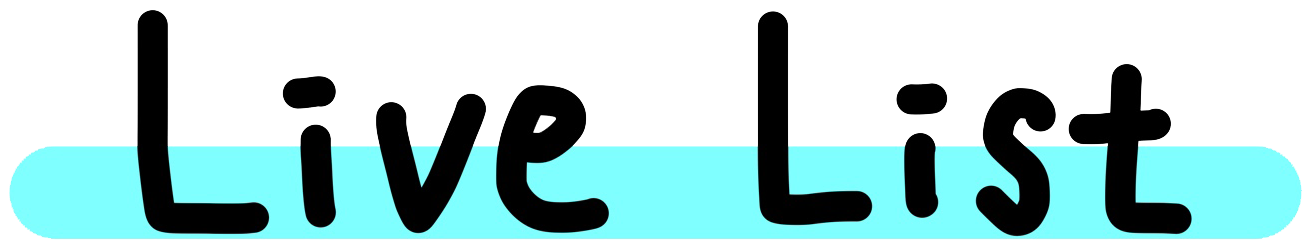
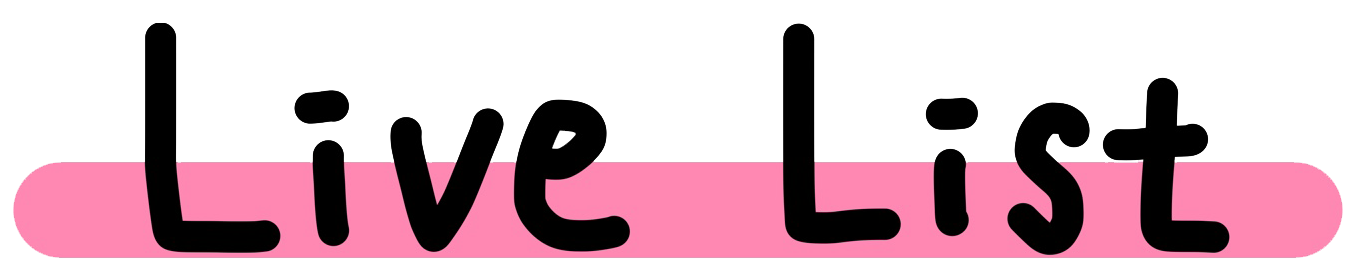
21.01.23: study-tapMenu
1. aloneStudy.html -> study-tapMenu 만듦
2. tap 효과 (studyMenu.js)
3. change livelist.png image
4. change main.html pageFrame class

diff --git a/views/aloneStudy.html b/views/aloneStudy.html
@@ -25,11 +25,18 @@
             </ul>
         </div>
     </nav>
-    <div class="pageFrame Study">
-        <div class="aloneToDoBox">
-            <div class="toDoTitle">
-                <img src="/imgs/todo.png" alt="">
-            </div>
+    <div class="study-menu">
+        <ul>
+            <li style="background-image:url('/imgs/todo.png'); background-size: 150px 50px;" data-link="#todo" class="on"></li>
+            <li style="background-image:url('/imgs/statistics.png'); background-size: 200px 48px;" data-link="#statistics"></li>
+            <li style="background-image:url('/imgs/livelist.png'); background-size: 200px 45px;" data-link="#livelist"></li>
+        </ul>
+    </div>
+    <div class="pageFrame Study"> 
+        <div class="aloneToDoBox" id="todo">
+            <!-- <div class="toDoTitle">
+            <img src="/imgs/todo.png" alt="">
+            </div> -->
             <div class="subjectList">
             {% for subj in subjects %}    
                 <div class="subjectBox">    
@@ -59,10 +66,7 @@
                 </div>
             </div>
         </div>
-        <div class="statisticsBox">
-            <div class="statisticsTitle">
-                <img src="/imgs/statistics.png" alt="">        
-            </div>
+        <div class="statisticsBox" id="statistics" style="display:none;">
             <form action="" class="sendDate">
               <input type="date" class="inputDate" >
               <input type="submit" class="submitBtn" value="보기">
@@ -76,7 +80,38 @@
                 <canvas id="myChart"></canvas>
                 <p class="text"></p>
             </div>
-        </div>  
+        </div>
+        <div class="liveListBox" id="livelist" style="display:none;">
+            <p>
+              공부중 : <span class="studyingCount">2</span>/
+              <span class="groupCount">5</span>
+            </p>
+            <div class="MemberPart" id="groupMember1">
+              <div class="streamingScreen"></div>
+              <div class="memberName">사장님</div>
+              <div class="studyingTime">02:33:24</div>
+            </div>
+            <div class="MemberPart" id="groupMember2">
+              <div class="streamingScreen"></div>
+              <div class="memberName">누군가</div>
+              <div class="studyingTime">02:33:24</div>
+            </div>
+            <div class="MemberPart" id="groupMember3">
+              <div class="streamingScreen"></div>
+              <div class="memberName">아무나</div>
+              <div class="studyingTime">02:33:24</div>
+            </div>
+            <div class="MemberPart" id="groupMember4">
+              <div class="streamingScreen"></div>
+              <div class="memberName">사용자</div>
+              <div class="studyingTime">02:33:24</div>
+            </div>
+            <div class="MemberPart" id="groupMember5">
+                <div class="streamingScreen"></div>
+                <div class="memberName">사용자</div>
+                <div class="studyingTime">02:33:24</div>
+              </div>
+        </div>
     </div>
 </body>
 
@@ -87,4 +122,5 @@
 <script src="https://cdnjs.cloudflare.com/ajax/libs/Chart.js/2.4.0/Chart.min.js"></script>
 <script src="https://cdnjs.cloudflare.com/ajax/libs/moment.js/2.18.1/moment.min.js"></script>
 <script src="/statistics.js"></script>
+<script src="/studyMenu.js"></script>
 </html>

diff --git a/public/style.css b/public/style.css
@@ -33,11 +33,13 @@ a {
 
 input {
   background-color: transparent;
+  outline: none;
 }
 
 button {
   background-color: transparent;
   border: none;
+  outline: none;
   cursor: pointer;
 }
 
@@ -126,21 +128,26 @@ span {
   width: 900px;
   height: 85vh;
   padding: 0;
-  margin: auto;
+  margin: 0 auto;
   display: flex;
   flex-flow: row;
   border-radius: 20px;
 }
 
-.pageFrame.Study {
+.pageFrame.Login {
   width: 900px;
-  height: 85vh;
+  height: 80vh;
   padding: 0;
   margin: 0 auto;
   display: flex;
   flex-flow: row;
-  /* border: 1px solid black; */
-  border-radius: 20px;
+}
+
+.pageFrame.Study {
+  width: 900px;
+  height: 80vh;
+  padding: 0;
+  margin: 0 auto;
 }
 
 /* main.html */
@@ -396,12 +403,7 @@ span {
   color: #1dd1a1;
   text-shadow: 2px 2px 2px gray;
   opacity: 1;
-  /* transform: translateY(0px); */
 }
-
-/* .pointer_img:hover {
-  opacity: 1;
-} */
 
 .aloneButton {
   display: flex;
@@ -415,9 +417,49 @@ span {
 
 /* aloneStudy.html */
 
+.study-menu {
+  display: block;
+  margin: auto;
+  width: 900px;
+  padding: 0;
+}
+
+.study-menu ul {
+  display: flex;
+}
+
+.study-menu ul li {
+  cursor: pointer;
+  flex: 1;
+  height: 50px;
+  background-size: 160px 80px;
+  background-repeat: no-repeat;
+  background-position: center;
+  text-align: center;
+  transition: all 200ms ease-in;
+}
+
+.study-menu ul li.on {
+  position: relative;
+  transform: scale(1.1);
+}
+
+.study-menu ul li:hover {
+  transform: scale(1.1);
+}
+
+.study-menu ul li.on:after {
+  content: '✔';
+  position: absolute;
+  right: 40%;
+  top: -10%;
+  font-size: 60px;
+  color: red;
+}
+
 .aloneToDoBox,
 .statisticsBox {
-  width: 450px;
+  width: 100%;
   padding: 0;
   /* margin: auto; */
   /* margin-top: 50px; */
@@ -446,14 +488,6 @@ span {
   text-align: center;
 
   border-radius: 20px 0 0 0;
-}
-
-.aloneToDoBox .toDoTitle img {
-  width: 150px;
-}
-
-.statisticsBox .statisticsTitle img {
-  width: 200px;
 }
 
 .aloneToDoBox .subjectTitle input {
@@ -763,10 +797,8 @@ body.popup div {
 
 /* groupStudy.html */
 
-.groupToDoBox,
-.liveListBox {
-  width: 450px;
-  padding: 0;
+.groupToDoBox {
+  width: 100%;
   margin: 0;
 }
 
@@ -776,7 +808,7 @@ body.popup div {
 
 .groupToDoBox .toDoTitle,
 .liveListBox .title {
-  height: 70px;
+  height: 80px;
   /* background-color: beige; */
   padding: 0;
   margin: 0;
@@ -843,13 +875,18 @@ body.popup div {
 }
 
 .liveListBox {
+  display: flex;
+  width: 500px;
   text-align: center;
+  margin: 0 auto;
 }
+
 .liveListBox span.studyingCount {
   color: red;
 }
 
 .liveListBox .MemberPart {
+  background-color: whitesmoke;
   width: 170px;
   height: 130px;
   border: 1px solid black;

diff --git a/public/studyMenu.js b/public/studyMenu.js
@@ -1,0 +1,24 @@
+const studyMenus = document.querySelector('.study-menu');
+const lis = document.querySelectorAll('.study-menu li');
+
+studyMenus.addEventListener('click', (event) => {
+  const target = event.target;
+  if (target.dataset) {
+    lis.forEach((li) => {
+      li.classList.remove('on');
+      studyDisplayNone(li.dataset.link);
+    });
+    target.classList.add('on');
+    studyDisplayOn(target.dataset.link);
+  }
+});
+
+function studyDisplayNone(selector) {
+  const selectedDiv = document.querySelector(selector);
+  selectedDiv.style.display = 'none';
+}
+
+function studyDisplayOn(selector) {
+  const selectedDiv = document.querySelector(selector);
+  selectedDiv.style.display = 'block';
+}

diff --git a/views/main.html b/views/main.html
@@ -15,7 +15,7 @@
         <div class="navbarMenu div">
         </div>
     </nav>
-    <div class="pageFrame Study">
+    <div class="pageFrame Login">
         <div class="logInBox">
             <div class="logInOrSignUp">
                 <span>Login</span> 
